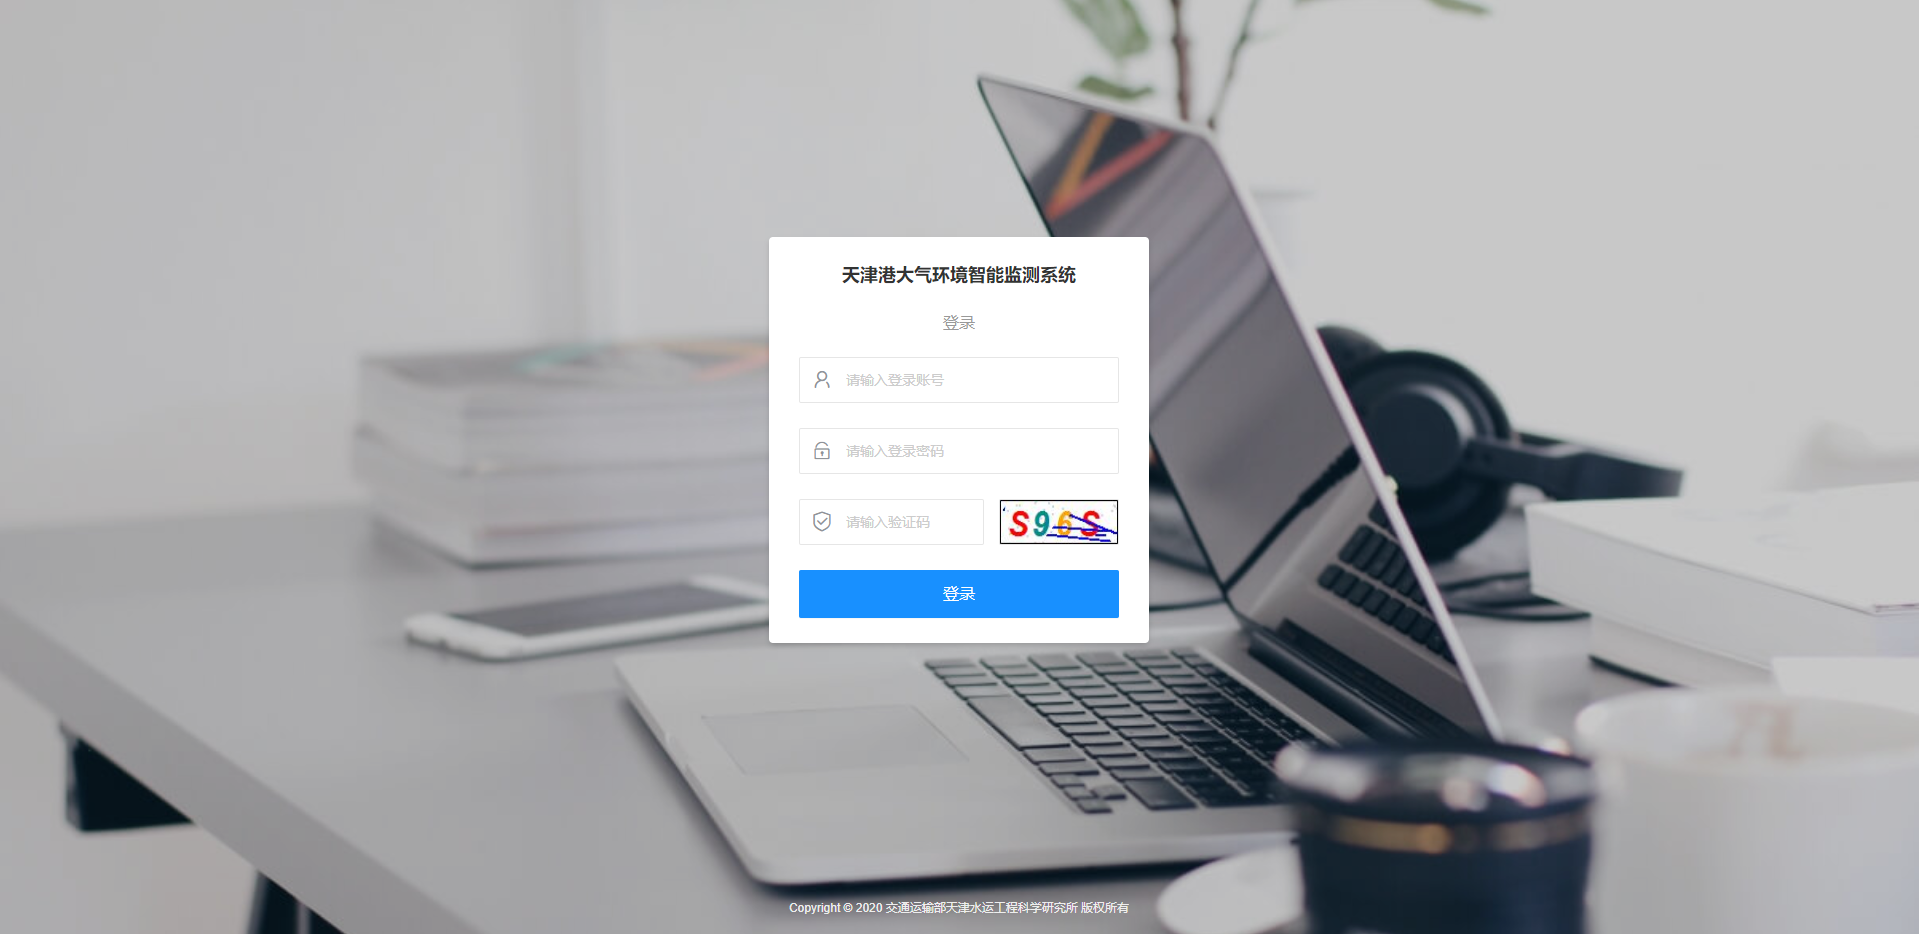
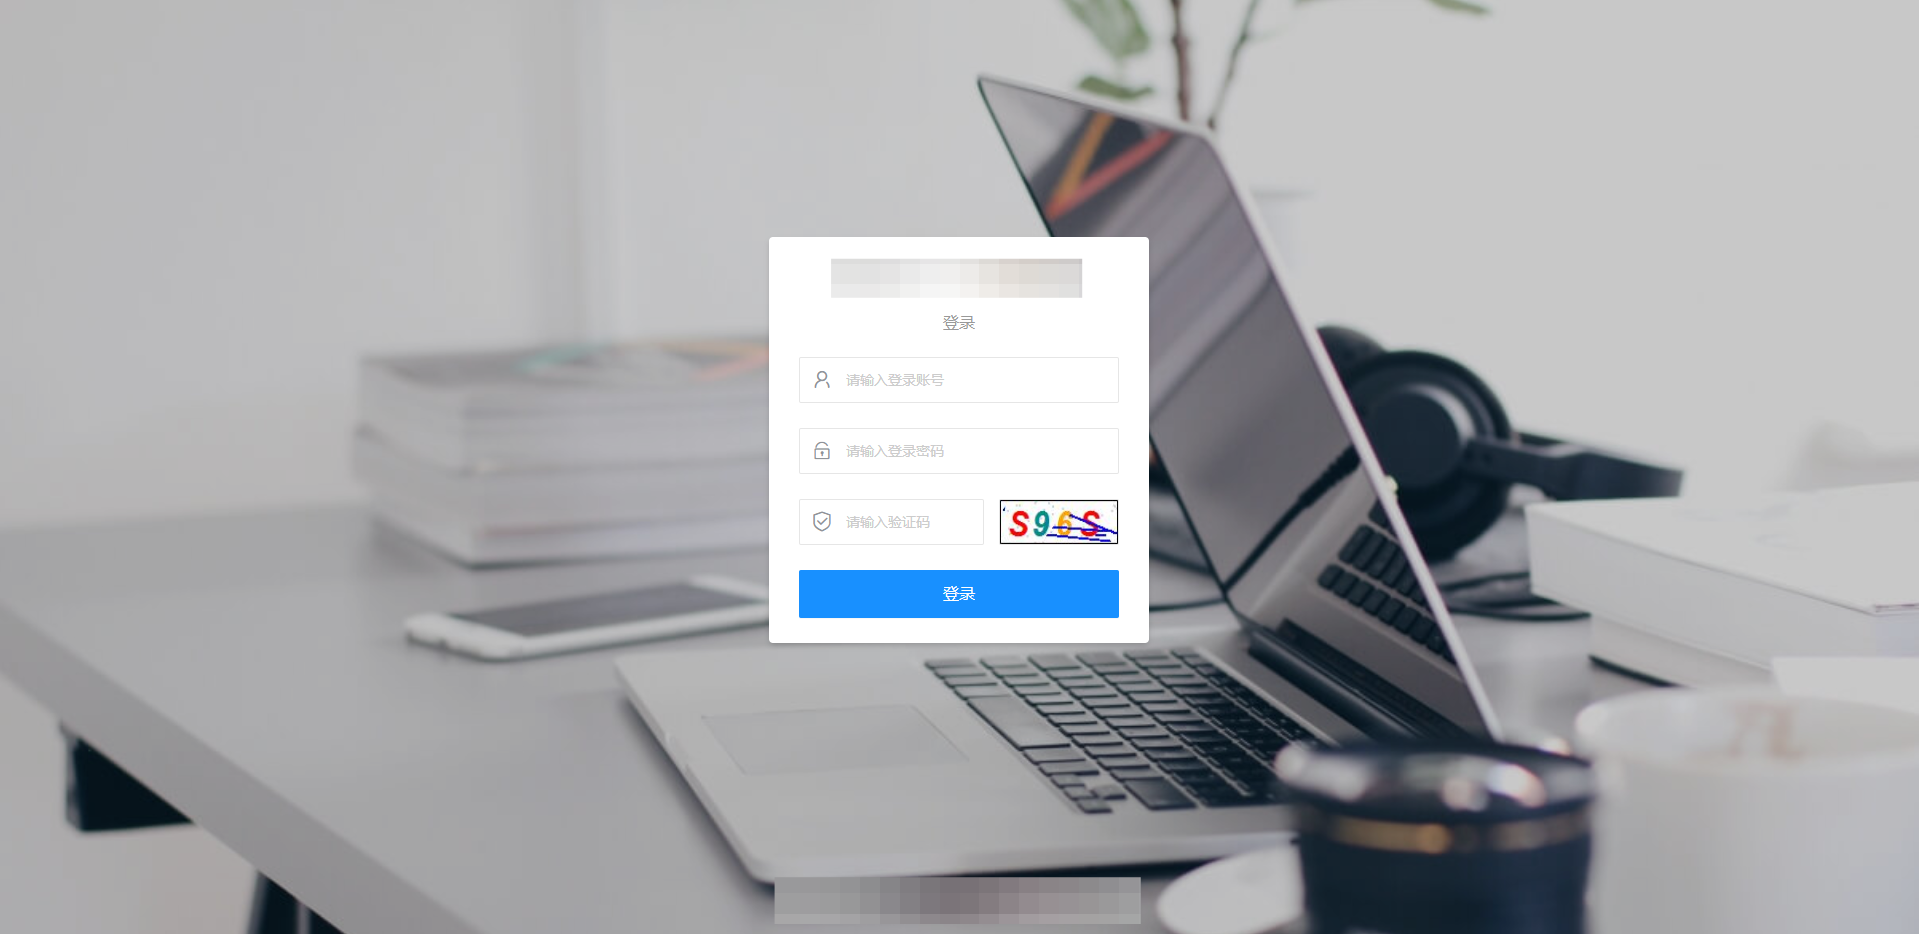
second commit

Changed region(s): [[0.3997, 0.9315, 0.6149, 0.9936], [0.4304, 0.2794, 0.5842, 0.3415]]

diff --git a/README.md b/README.md
@@ -8,18 +8,177 @@ The system covers eight main functions, which are
 * Fundamental Analysis
 * Monitoring Report
 * Traceability Analysis
-* Distribution of Pollution Sources
+* Monitoring Platform
 
-Next, I will explain one by one.
+Next, I will explain one by one. (*Privacy information is coded*)
 
 -------------------------------------------------------------
 
-#### Login
+## Login
 
 This page requires user input, username, password and verification code to log in. (The addition and assignment of user accounts need to be operated in System Management -> User Management)
 
-![Login Page](https://github.com/Walt00y/Project_01/blob/main/pic/login.png "Login Page")
+![Login Page](https://github.com/Walt00y/Project_01/blob/main/pic/login_in.png "Login Page")
+
+-------------------------------------------------------------
+
+## System Management
+
+The system management is oriented to the system administrator of the atmospheric environment intelligent monitoring system, and performs four parts of operation: authority management, role management, user management and login log.
+
+### Role Management
+
+Administrators can set different roles and grant different permissions.
+
+![Role Management](https://github.com/Walt00y/Project_01/blob/main/pic/SysM_RoleM.png "Role")
+
+### User Management
+
+User management is to add and manage the users of the system, including user account, user name, gender, display level, user role and user status. The user status is divided into "normal" and "locked". After the system administrator locks the status of a user, the user does not have permission to log in to the system.
+
+![User Management](https://github.com/Walt00y/Project_01/blob/main/pic/SysM_UserM.png "User")
+
+-------------------------------------------------------------
+
+## Data Maintenance
+
+This section is used for monitoring site management, monitoring area source management and monitoring point source management operations.
+
+### Monitoring Site
+
+In the system, data information such as the point code, latitude and longitude of the monitoring site, belonging company, belonging area, surrounding main emission sources and main functions can be entered in the system. Through the search bar, we can make precise queries by entering the point code or latitude and longitude coordinates of the relevant point. The data entry of newly added points can be performed through the "Add" button. The "Batch Delete" button can delete some points that are no longer in use by checking the square box in the table. At the same time, when the point information changes, you can use the "Modify" button in the first column of the operation bar to modify the data of the relevant point or the "Delete" button to delete it.
+
+![Monitoring site](https://github.com/Walt00y/Project_01/blob/main/pic/DataM_MonitoringSite.png "Site")
+
+### Monitoring Area Sources
+
+We can categorize pollution sources. Each of these categories corresponds to multiple pollution source areas. By collecting and entering the coordinates of multiple points corresponding to each pollution source area, a non-point source of pollution is formed. By selecting different pollution sources, you can see the geographical coordinates of the pollution in this area listed in the table on the right, and connect the non-point sources of pollution of the petrochemical terminal based on these coordinates on the map. Similarly, the operations of adding, modifying, and deleting pollution source areas and adding, modifying, and deleting corresponding surface source coordinate points can be performed through the relevant buttons.
+
+![Monitoring area](https://github.com/Walt00y/Project_01/blob/main/pic/DataM_MonitoringAreaSource.png "Area")
+
+### Announcement Management
+
+By clicking the "Add" button, you can create a new announcement in the pop-up window, and you can also use the "Modify" button to modify the added announcement title and text information, and decide whether to publish it or not.
+
+![Announcement](https://github.com/Walt00y/Project_01/blob/main/pic/DataM_Announcement.png "Announcement")
+
+-------------------------------------------------------------
+
+## Monitoring & Early Warning
+
+### Early Warning
+
+If the monitoring data of a monitoring point exceeds the set alarm threshold, this page will pop up the alarm bar on the right.
+
+![Warning](https://github.com/Walt00y/Project_01/blob/main/pic/Monitoring_EarlyWarning.png "Warning")
+
+### Detail Info of Points
+
+Click on any monitoring point, and the relevant monitoring information will be displayed in the pop-up window on the right.
+
+![Points Info](https://github.com/Walt00y/Project_01/blob/main/pic/Monitoring_Point.png "Points Info")
+
+-------------------------------------------------------------
+
+## Fundamental Analysis
+
+### Data Query
+
+Click any monitoring point on the left, select the start and end dates within a certain time period, and click the search button to view the trend chart of various data of this monitoring point during this period. Click the header button to check different pollutant parameters (TSP, PM2.5, PM10, CO, SO2, NO2, O3, air temperature, humidity, wind speed, wind direction) to view the trend chart.
+
+Click on any point in the figure (click on the circle), you can view the five data records before and after the current time in the table below, and the row marked in yellow in the table is the data of the date and time at the clicked place. In the upper right corner of the chart, there is a download button to download the currently displayed chart. At the same time, you can switch between line charts and bar charts to make data visualization more diverse.
+
+![Query](https://github.com/Walt00y/Project_01/blob/main/pic/FundamentalAnalysis_DataQuery.png "Query")
+
+### Year on Year & Month on Month
+
+Select any point in the station list on the left, select the type of pollutant (TSP, PM2.5, PM10, CO, SO2, NO2, O3) and date (day/week/month) to be queried in the search box, and proceed to Year-on-year queries.
+
+The month-on-month data is a comparison between a certain point (day/week/month) and this (day/week/month), and the data of a certain pollutant type is displayed in a bar chart.
+
+The year-on-year data is a comparison of the data of a certain pollutant type between this year (day/week/month) and this year (day/week/month) at a certain point in the previous year, which is displayed as a bar chart.
+
+![YoY & MoM](https://github.com/Walt00y/Project_01/blob/main/pic/FundamentalAnalysis_YoY_MoM.png "YoY & MoM")
+
+### Calendar
+
+The calendar is to display the monitoring data of the site in the form of a calendar chart. By clicking on a date, the monitoring data information under this date will pop up on the right. Date selections are displayed by month.
+
+![Calendar](https://github.com/Walt00y/Project_01/blob/main/pic/FundamentalAnalysis_Calendar.png "Calendar")
+
+### Meteorological Data
+
+The meteorological data includes three parts: temperature and humidity line graph, wind speed and direction graph, and wind direction rose graph. Select the corresponding point by clicking the site list on the left, and select the time period to search.
+
+#### Line Chart
+
+![Line Chart](https://github.com/Walt00y/Project_01/blob/main/pic/FundamentalAnalysis_MeteorologicalData_LineChart.png "Line Chart")
+
+#### Wind Speed and Direction
+
+![Wind Speed & Direction](https://github.com/Walt00y/Project_01/blob/main/pic/FundamentalAnalysis_MeteorologicalData_WindSpeed&Direction.png "WSD")
+
+#### Wind Rose
+
+![Wind Rose](https://github.com/Walt00y/Project_01/blob/main/pic/FundamentalAnalysis_MeteorologicalData_Wind_Rose.png "WR")
 
 
+### Data Comparison
 
+By selecting the pollutant type in the drop-down list, select the time range to be viewed, check the points to be viewed in the site list on the left, and click the search button to display the data trend graph in the figure. Cancel the viewing of the corresponding point. You can click the corresponding point in the station list on the left again, or click the corresponding point name in the title box of the graph header. The trend chart of the current comparison point can be downloaded by clicking the download button in the upper right corner.
 
+![Data Comparison](https://github.com/Walt00y/Project_01/blob/main/pic/FundamentalAnalysis_DataComparison.png "DC")
+
+### Historical Data
+
+The historical data page covers all data of all points. We can select a specific time period and measurement site in the search box, query the historical data of each point and each time period, and display it in the form of a data table.
+
+![Historical Data](https://github.com/Walt00y/Project_01/blob/main/pic/FundamentalAnalysis_History.png "HD")
+
+-------------------------------------------------------------
+
+## Monitoring Report
+
+The monitoring report can be searched by selecting a specific point and a specific date through the search box above the table to view the monitoring data of a certain site on a certain day. It is also possible to perform a time range search only to view the data of all points within a specific time range. Click the Export button to export all the data in the current search date range to the local in Excel format.
+
+![Daily Report](https://github.com/Walt00y/Project_01/blob/main/pic/MonitoringReport_Daily.png "DR")
+
+![RealT Report](https://github.com/Walt00y/Project_01/blob/main/pic/MonitoringReport_RealTime.png "RR")
+
+-------------------------------------------------------------
+
+## Traceability Analysis
+
+Find the cause of pollution through data visualization
+
+### Flat
+
+![Flat](https://github.com/Walt00y/Project_01/blob/main/pic/TraceabilityAnalysis_Flat.png "Flat")
+
+### 3D
+
+Traceability analysis The 3D surface map 3D air pollution data in a specific area can visually see the seriously polluted area and compare the data (the X and Y axes show the longitude and latitude respectively, and the Z axis shows the pollution severity) .
+
+Among them, the zoom-in and zoom-out of the 3D image can be controlled by controlling the mouse wheel, the 3D effect display in different directions can be realized by the direction selection box in the upper left corner, and the 3D image display in different directions can be realized by controlling the right mouse button to slide.
+
+Click a location in the heat map on the upper right, and the monitoring range of the clicked location will be displayed on the map on the lower right. Use the slider on the upper right of the map to control the radius to filter suspected pollution sources, and the suspected pollution sources will be displayed in the list on the left.
+
+![3D](https://github.com/Walt00y/Project_01/blob/main/pic/TraceabilityAnalysis_3D.png "3D")
+
+-------------------------------------------------------------
+
+## Monitoring Platform
+
+### Platform
+
+The monitoring platform is an integration of the information covered by the Tianjin Port atmospheric environment monitoring system. Through this platform, users can be presented with intuitive data charts.
+
+![Platform](https://github.com/Walt00y/Project_01/blob/main/pic/Monitoring_platform.png "Platform")
+
+### Announcement
+
+The notification bulletin board can roll out announcements that are allowed to be published. If the announcement exceeds a certain number of words, the excess words will be omitted. You can also click Show All to view the full announcement. As shown in the image below.
+
+![Announcement](https://github.com/Walt00y/Project_01/blob/main/pic/Monitoring_platform_showall.png "Announcement")
+
+-------------------------------------------------------------
